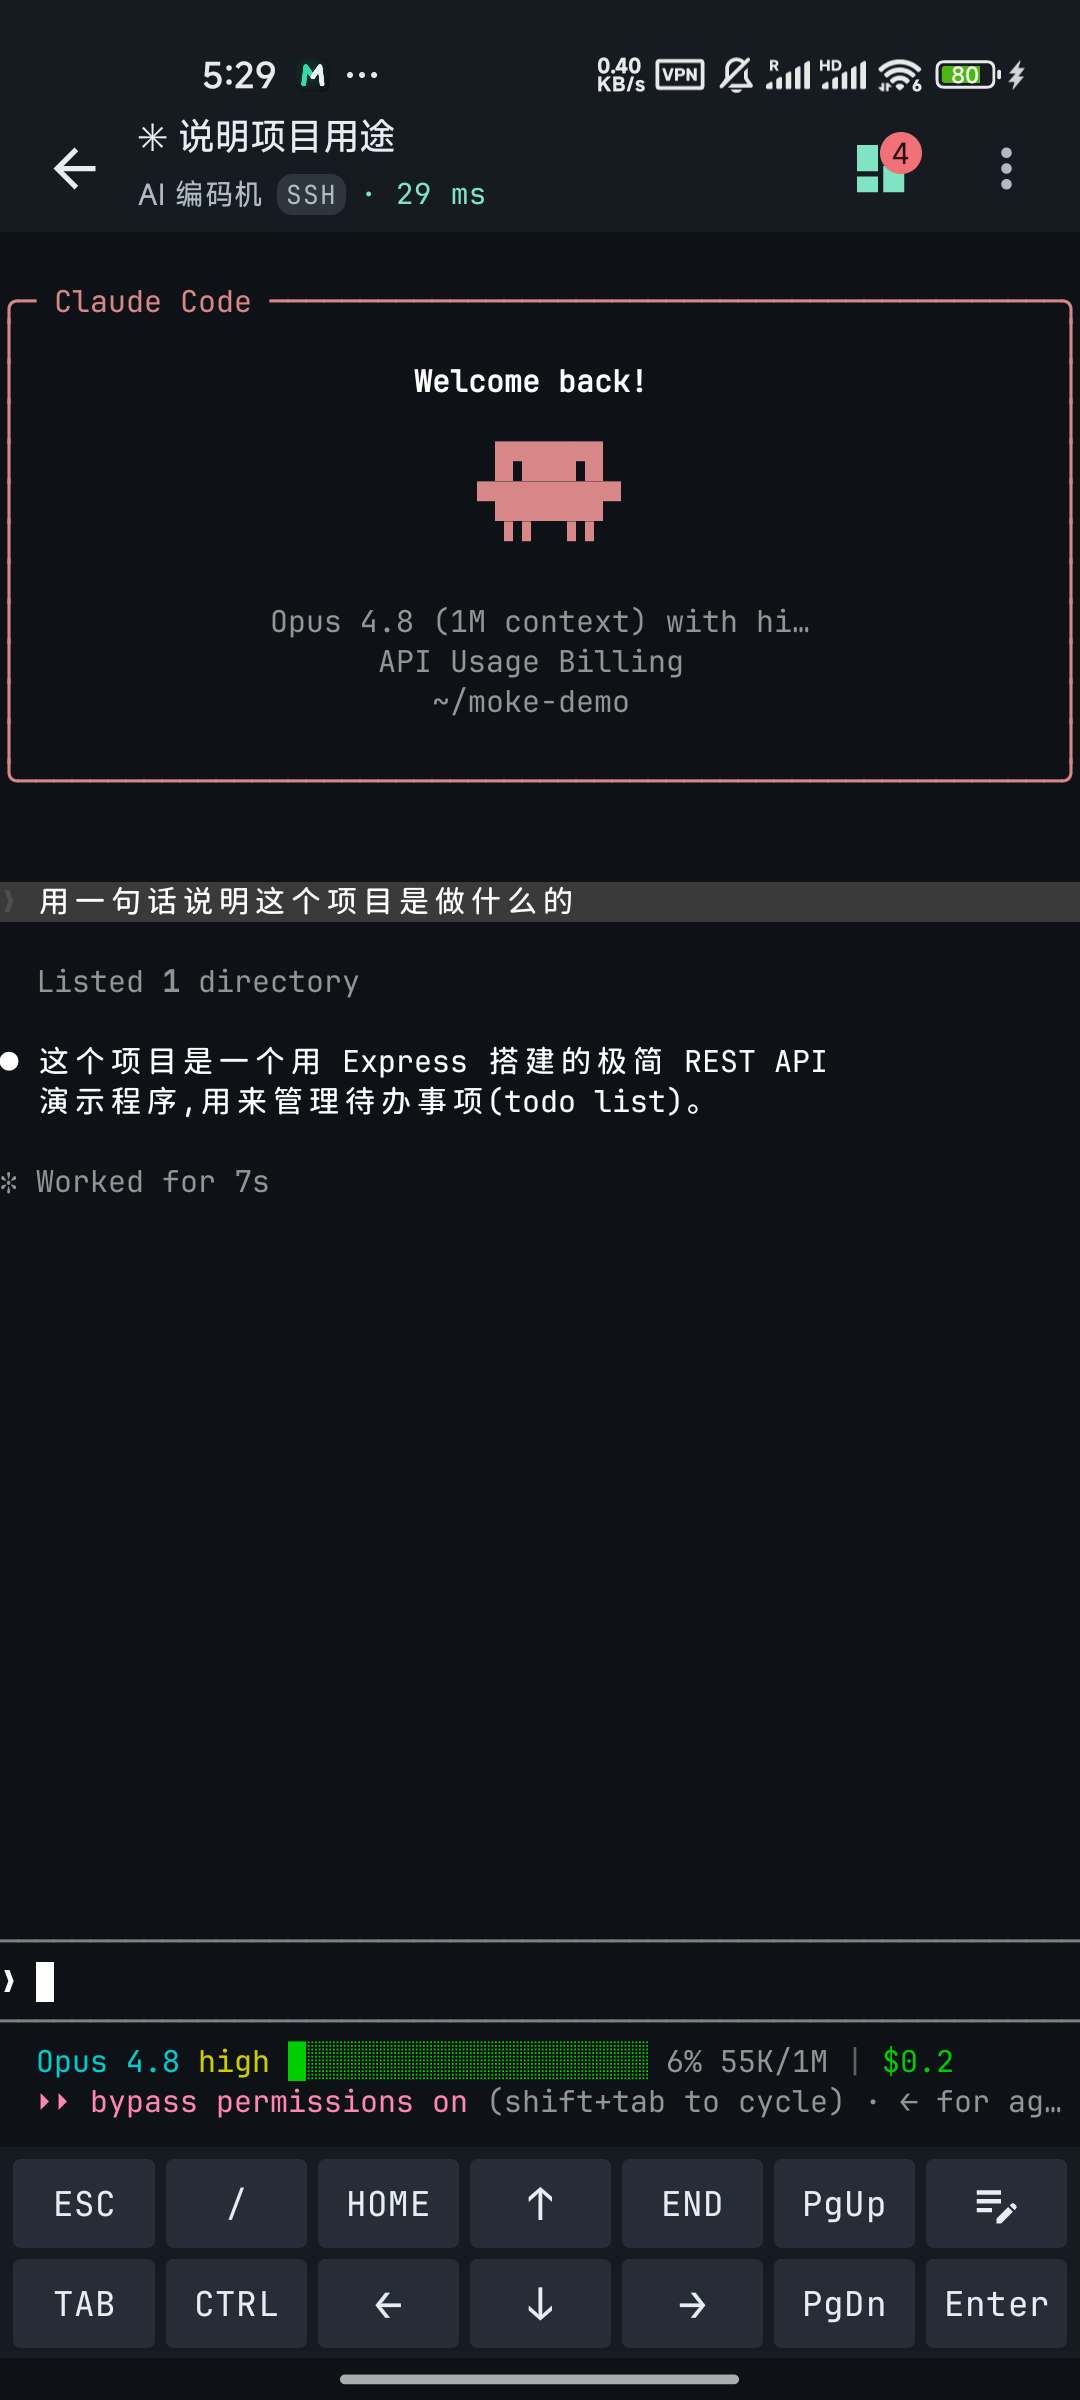
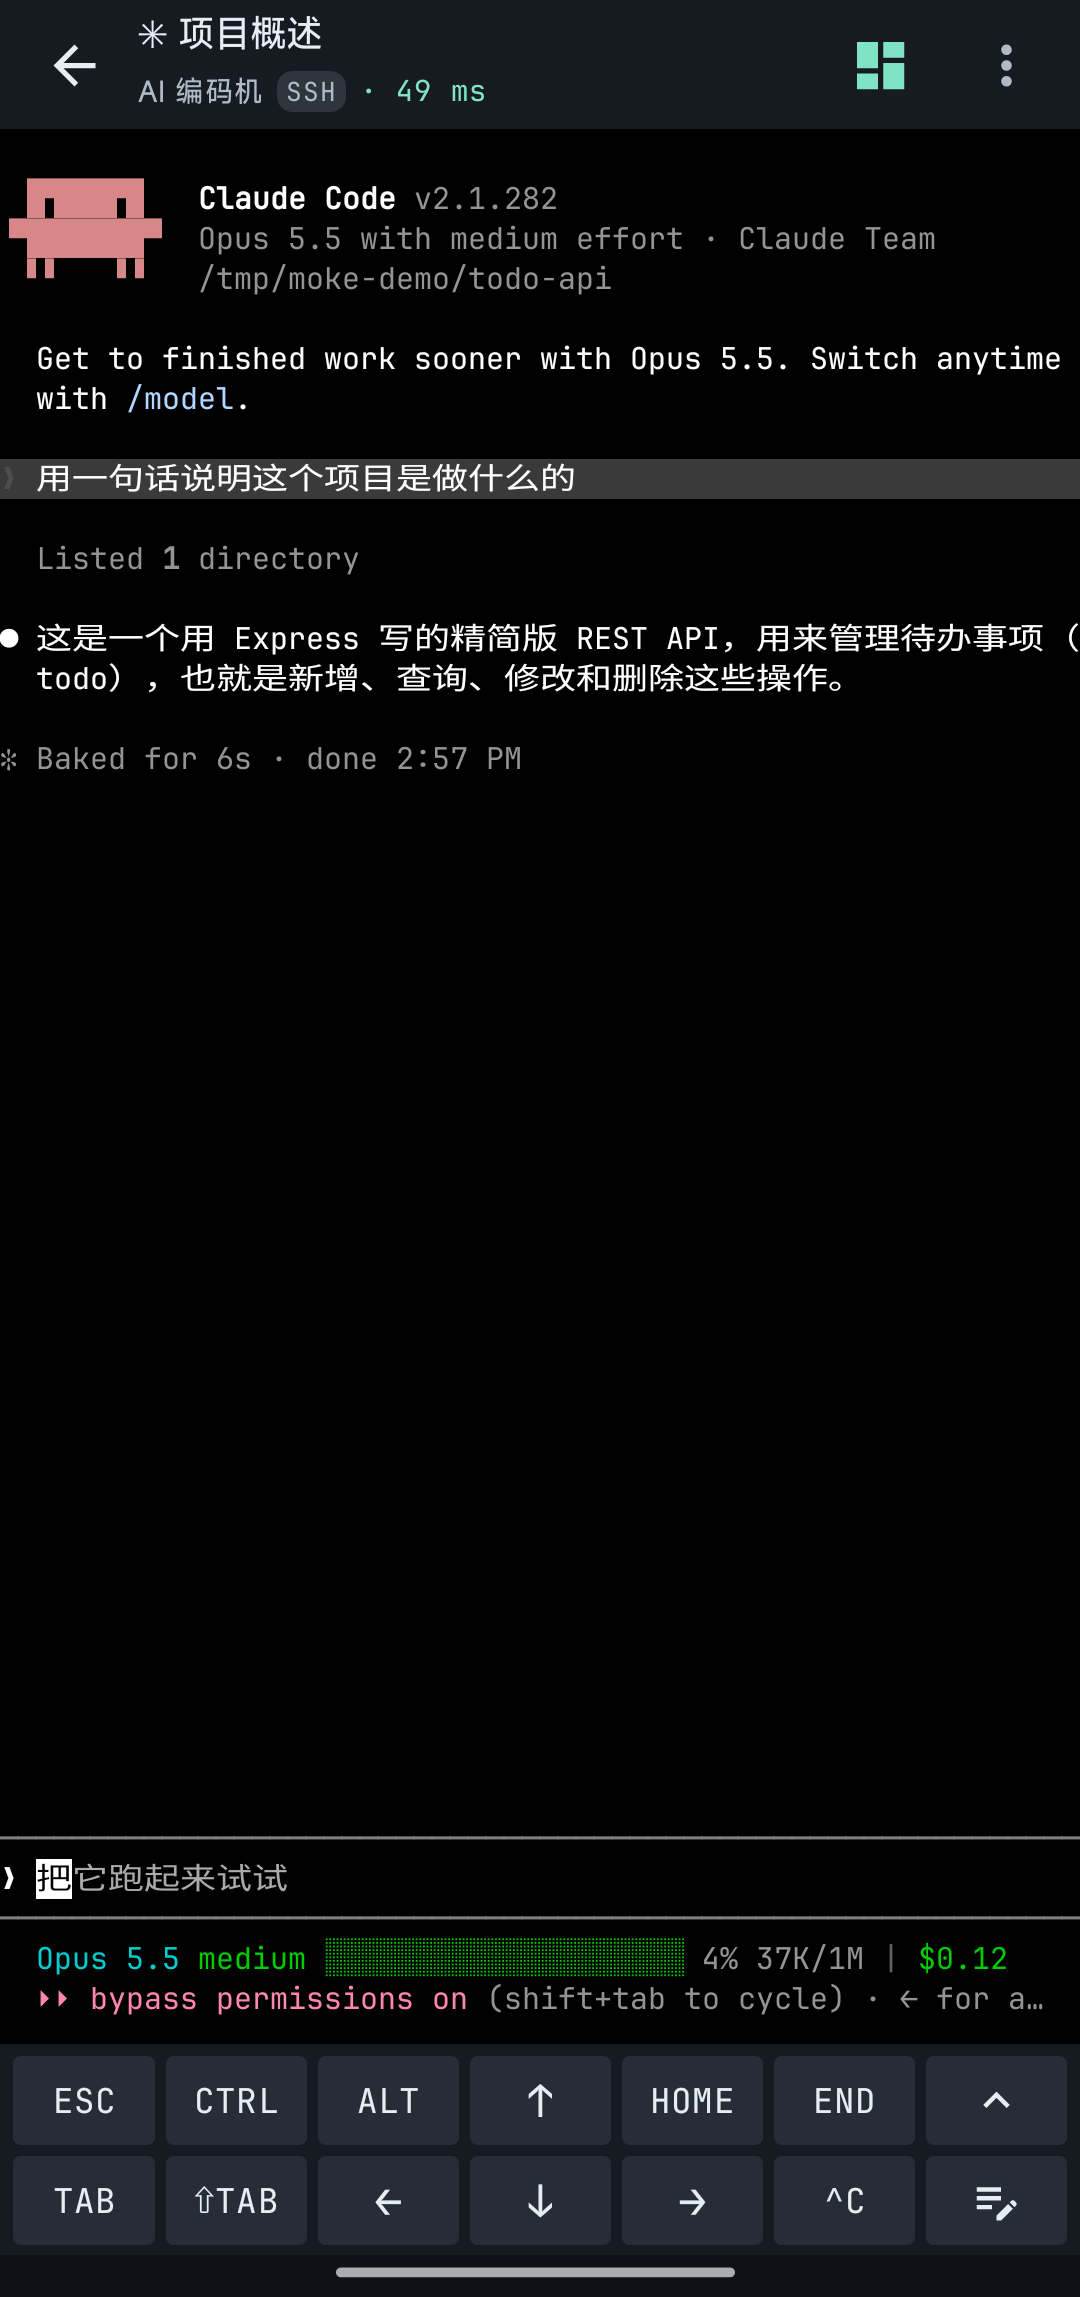
docs: 更新功能说明与截图，更正 vendored 模块的修改说明

diff --git a/README.md b/README.md
@@ -18,18 +18,20 @@ Moke is a native SSH / mosh terminal for Android. It connects to remote servers 
 
 ## Features
 
-- **SSH**: password / private-key (PEM) auth; TOFU host-key verification; jump host (ProxyJump); run-on-login command; window resize; keep-alive heartbeat.
-- **mosh**: bundled native `mosh-client` running as a separate subprocess over a PTY; UDP roaming (reconnect on screen-off / network switch).
-- **Sessions & hosts**: multiple sessions stay resident and switch across screens, with a foreground service keeping connections alive in the background; group / sort (including manual drag-to-reorder); duplicate; per-session titles; protocol badges; copy connect command.
-- **Terminal**: two-row extra keys + text-block input; copy & paste; pinch-to-zoom; swipe-to-scroll in full-screen TUIs (Claude Code, vim, … — over both SSH and mosh); a top status bar (protocol / host / latency); a tmux panel to attach / create / rename / kill remote sessions.
-- **Appearance**: live preview; multiple dark color schemes; adjustable font size / line spacing / letter spacing; cursor style; font management (primary + CJK fallback — a bundled Noto Sans SC subset, plus downloadable Fira Code / Maple Mono / Hack and more).
-- **Security & languages**: connection credentials are encrypted with the Android Keystore (AES-GCM) before being stored; bilingual English / 中文 (i18n), following the system language by default and switchable in Settings.
+- **SSH**: password / private-key (PEM) auth; TOFU host-key verification with fingerprint confirmation on first connection; jump host (ProxyJump); per-host startup command (e.g. pick cmd, PowerShell or WSL on a Windows host); run-on-login command; keep-alive heartbeat.
+- **mosh**: bundled native `mosh-client` running as a separate subprocess over a PTY; UDP roaming (survives screen-off and network switches); closing a session also shuts down the remote `mosh-server`.
+- **tmux**: a panel to attach / create / rename / detach / kill remote sessions; optionally attach automatically on connect; optionally let tmux handle swipe scrolling.
+- **Files**: browse remote folders over SFTP (SSH and mosh hosts); upload / download with resume; transfers keep running in the background; send a file's path to the terminal.
+- **Sessions & hosts**: multiple sessions stay resident, with a foreground service keeping connections alive in the background; group / sort (including manual drag-to-reorder); duplicate; per-session titles; clear ended sessions; copy connect command.
+- **Terminal**: two-row extra keys plus an expandable full keyboard (editing keys, F1–F12, Ctrl shortcuts) with lockable modifiers; text-block input; three keyboard modes (character / standard / IME first) for comfortable CJK input; copy & paste, including remote clipboard writes (OSC 52); pinch-to-zoom; swipe-to-scroll in full-screen TUIs with a selectable mode, plus jump-to-latest; a top status bar (protocol / host / latency).
+- **Appearance**: live preview; light / dark / follow-system theme with separate terminal color schemes for each; font size / line spacing / letter spacing; cursor style; font management (primary + CJK fallback — a bundled Noto Sans SC subset, plus downloadable Fira Code / Maple Mono / Hack and more, or import your own).
+- **Security, languages & updates**: credentials are encrypted with the Android Keystore (AES-GCM) before being stored and are excluded from system backups; bilingual English / 中文, following the system language by default and switchable in Settings; in-app update check (optionally including pre-releases).
 
 ## Screenshots
 
 <div align="center">
-<img src="docs/screenshot-connections.png" alt="Host management" width="200"/>&nbsp;<img src="docs/screenshot-terminal.png" alt="Terminal running Claude Code over SSH" width="200"/>&nbsp;<img src="docs/screenshot-appearance.png" alt="Appearance settings" width="200"/>&nbsp;<img src="docs/screenshot-sessions.png" alt="Multiple sessions" width="200"/>
-<br/><sub>Host management · Terminal (SSH running Claude Code) · Appearance · Multiple sessions</sub>
+<img src="docs/screenshot-connections.png" alt="Hosts" width="160"/>&nbsp;<img src="docs/screenshot-terminal.png" alt="Terminal running Claude Code over SSH" width="160"/>&nbsp;<img src="docs/screenshot-tmux.png" alt="tmux panel" width="160"/>&nbsp;<img src="docs/screenshot-files.png" alt="Remote files" width="160"/>&nbsp;<img src="docs/screenshot-appearance.png" alt="Appearance (light theme)" width="160"/>
+<br/><sub>Hosts · Terminal (Claude Code over SSH) · tmux panel · Remote files · Appearance (light theme)</sub>
 </div>
 
 ## Install
@@ -46,8 +48,8 @@ Allow "install from unknown sources" and install. Release builds use a stable si
 | Module | Description | License |
 |---|---|---|
 | `app` | Product layer (Compose UI / session orchestration / transport implementations) | GPL-3.0-or-later |
-| `terminal-emulator` | Terminal parsing / state core (vendored; `TerminalSession` made transport-agnostic) | Apache-2.0 |
-| `terminal-view` | Terminal rendering View (vendored; only small backward-compatible tweaks for line / letter spacing) | Apache-2.0 |
+| `terminal-emulator` | Terminal parsing / state core (vendored; `TerminalSession` made transport-agnostic; the PTY JNI is kept for the mosh subprocess) | Apache-2.0 |
+| `terminal-view` | Terminal rendering View (vendored; additive changes for line / letter spacing and swipe scrolling) | Apache-2.0 |
 
 ## Build
 

diff --git a/THIRD_PARTY_NOTICES.md b/THIRD_PARTY_NOTICES.md
@@ -8,11 +8,12 @@ moke 依赖或包含以下第三方组件。感谢这些项目的作者与维护
 - 来源：[termux/termux-app](https://github.com/termux/termux-app) 的 `terminal-emulator`、`terminal-view` 模块
 - 上游来源：[Android Terminal Emulator](https://github.com/jackpal/Android-Terminal-Emulator)（Jack Palevich 等）
 - 许可：**Apache License 2.0**
-- 修改说明：
-  - `terminal-view`：**极小改动**——`TerminalRenderer` 增加可选行距倍数 / 字间距（em）参数，`TerminalView` 增加 `setFontSpacing(...)`；均向后兼容，默认值等价上游。
-  - `terminal-emulator`：删除 `JNI.java` 与 `src/main/jni/`（本地 PTY 的 C 代码）；
-    将 `TerminalSession.java` 改写为传输无关（移除 `forkpty`/JNI，改为面向 `TerminalTransport`），
-    并新增 `TerminalTransport.java`。其余文件未修改。
+- 修改说明（均为加法式、向后兼容；逐项见各模块的 `README.md`）：
+  - `terminal-view`：`TerminalRenderer` 增加可选行距倍数 / 字间距（em）参数，`TerminalView` 增加 `setFontSpacing(...)`；
+    `TerminalView` 增加全屏程序内的滑动处理与滚屏回调，新增 `MokeScroll.java`（滑动决策）；文本选择工具条去掉无作用的 "More…" 项。
+  - `terminal-emulator`：将 `TerminalSession.java` 改写为传输无关（面向新增的 `TerminalTransport.java`，不再 fork 本地 shell）；
+    保留 `JNI.java` 与 `src/main/jni/termux.c`（PTY 子进程，`JNI` 改为 public），用于以独立子进程运行 `mosh-client`；
+    `TerminalEmulator.java` 识别 DECSET 1003 并新增 `isBracketedPasteMode()`。其余文件未修改。
 
 ### 字体（打包进 APK）
 - [JetBrains Mono](https://github.com/JetBrains/JetBrainsMono)（`res/font/jetbrains_mono.ttf`）——**OFL**，默认等宽主字体，未修改。

diff --git a/terminal-view/README.md b/terminal-view/README.md
@@ -1,13 +1,17 @@
-# terminal-view (vendored, 极小改动)
+# terminal-view (vendored, 小幅改动)
 
 复制自 [termux/termux-app](https://github.com/termux/termux-app) 的 `terminal-view` 模块，
 许可 **Apache License 2.0**（源自 [Android Terminal Emulator](https://github.com/jackpal/Android-Terminal-Emulator)）。
 
 ## moke 的修改
 
-除 `build.gradle` → `build.gradle.kts` 外，仅为支持行距/字间距做了向后兼容的加法式改动：
+除 `build.gradle` → `build.gradle.kts` 外，均为向后兼容的加法式改动：
 
 - `TerminalRenderer`：新增可选构造参数——行距倍数（缩放 `mFontLineSpacing`）与字间距（em，作用于 `mTextPaint`）；默认 `1.0 / 0` 等价上游。
-- `TerminalView`：新增 `setFontSpacing(lineSpacingMul, letterSpacingEm)`，重建渲染器并重算行列。
+- `TerminalView`：
+  - 新增 `setFontSpacing(lineSpacingMul, letterSpacingEm)`，重建渲染器并重算行列；
+  - 全屏程序内的滑动处理：按应用层选择的模式决定滚本地历史、发滚轮事件或发方向键；滚屏位置变化与"无处可滚"回调；`mokeScrollToBottom()` 跳回最新输出。
+- 新增 `MokeScroll.java`：上述滑动决策的纯函数实现（无 Android 依赖，由单元测试覆盖）。
+- `TextSelectionCursorController`：去掉文本选择工具条中的 "More…" 项（本项目未注册上下文菜单，该项无作用）。
 
-其余定制仍应在 `app/` 或通过 `TerminalTransport` 完成，以便跟进上游。详见根目录 [THIRD_PARTY_NOTICES.md](../THIRD_PARTY_NOTICES.md)。
+其余定制应在 `app/` 或通过 `TerminalTransport` 完成，以便跟进上游。详见根目录 [THIRD_PARTY_NOTICES.md](../THIRD_PARTY_NOTICES.md)。

diff --git a/terminal-emulator/README.md b/terminal-emulator/README.md
@@ -7,11 +7,10 @@
 
 为把本地 PTY 终端改造为"网络传输无关"的会话：
 
-- **删除** `JNI.java` 与 `src/main/jni/`（`forkpty` 的 C 代码）——v0.1 无需 NDK。
-- **改写** `TerminalSession.java`：移除 JNI/PTY，保留 `TerminalView` 依赖的公有 API；
-  远端字节沿用 `ByteQueue` + 主线程 `Handler` 喂给 `TerminalEmulator`。
-- **新增** `TerminalTransport.java`：传输抽象（SSH/mosh/local 实现位于 `app/`）。
+- **改写** `TerminalSession.java`：不再自己 fork 本地 shell，改为面向 `TerminalTransport`；保留 `TerminalView` 依赖的公有 API；
+  远端字节沿用 `ByteQueue` + 主线程 `Handler` 喂给 `TerminalEmulator`；会话结束 / 连接失败等状态文案由应用层提供（跟随应用内语言）。
+- **新增** `TerminalTransport.java`：传输抽象（SSH / mosh 实现位于 `app/`）。
+- **保留** `JNI.java` 与 `src/main/jni/termux.c`（PTY 子进程），`JNI` 改为 public：`app/` 用它把随包的 `mosh-client` 作为独立子进程运行在 PTY 上。
+- `TerminalEmulator.java`：两处加法式改动——把 DECSET 1003（any-event 鼠标跟踪）视为鼠标跟踪已开启；新增 `isBracketedPasteMode()` 查询。
 
-其余文件（`TerminalEmulator`、`TerminalBuffer`、`KeyHandler`、`WcWidth` 等）与上游一致。
-
-详见根目录 [THIRD_PARTY_NOTICES.md](../THIRD_PARTY_NOTICES.md)。
+其余文件与上游一致。详见根目录 [THIRD_PARTY_NOTICES.md](../THIRD_PARTY_NOTICES.md)。

diff --git a/CONTRIBUTING.md b/CONTRIBUTING.md
@@ -12,7 +12,7 @@ Please file bugs or suggestions via [issues](https://github.com/briqt/moke/issue
 
 - JDK 17, Android SDK (compileSdk 35 / build-tools 35)
 - Create `local.properties` at the project root: `sdk.dir=/path/to/Android/sdk`
-- Build: `./gradlew assembleDebug`; test: `./gradlew testDebugUnitTest`
+- Build: `./gradlew assembleStandardDebug`; test: `./gradlew testDebugUnitTest` (for the `maple` flavor and the mosh native build, see the Build section of the README)
 
 ## Conventions
 

diff --git a/CONTRIBUTING.zh-CN.md b/CONTRIBUTING.zh-CN.md
@@ -12,7 +12,7 @@
 
 - JDK 17、Android SDK（compileSdk 35 / build-tools 35）
 - 在项目根创建 `local.properties`：`sdk.dir=/path/to/Android/sdk`
-- 构建：`./gradlew assembleDebug`；测试：`./gradlew testDebugUnitTest`
+- 构建：`./gradlew assembleStandardDebug`；测试：`./gradlew testDebugUnitTest`（maple 变体与 mosh native 的构建见 README「构建」一节）
 
 ## 约定
 
